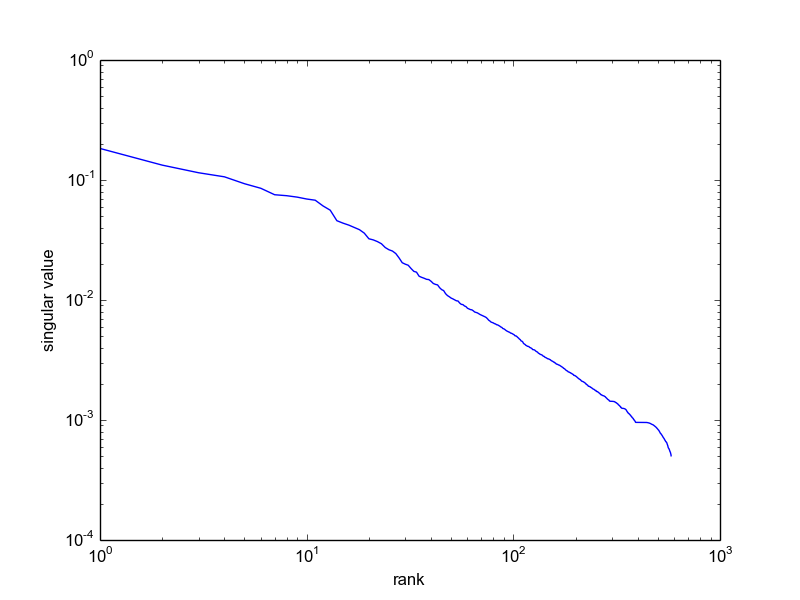
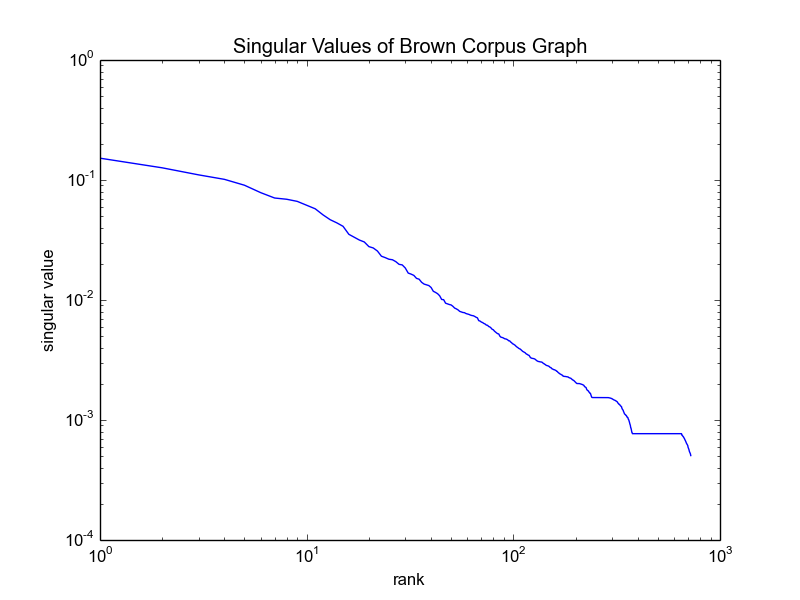
only the first thousand or so

diff --git a/analysis/overflow_singular_values.py b/analysis/overflow_singular_values.py
@@ -1,0 +1,21 @@
+import collections
+import math
+from nltk.corpus import brown
+import networkx as nx
+import matplotlib.pyplot as plt
+from scipy.stats import ks_2samp
+import numpy as np
+import numpy.linalg as npl
+
+with open("stack_overflow2.txt", "r") as stack_corpus:
+    net = nx.read_edgelist(stack_corpus)
+    adj = nx.to_numpy_matrix(net)
+    U, S, V = npl.svd(adj)
+    eigs = S ** 2 / np.cumsum(S)[-1]
+    eigs = eigs[eigs>0.0005]
+
+    plt.loglog(eigs, 'b-')
+    plt.xlabel("rank")
+    plt.ylabel("singular value")
+    plt.title("Singular Values from Stack Overflow Graph")
+    plt.savefig("overflow_singval_loglog")

diff --git a/analysis/stack_overflow_process.py b/analysis/stack_overflow_process.py
@@ -1,0 +1,7 @@
+with open("stack_overflow.txt", "r") as stack_file:
+    for line in stack_file:
+        first, second = tuple(line.split())
+        if first == "__none__" or second == "__none__": continue
+        first, second= int(first), int(second)
+        if first < 10000 and second < 10000:
+            print first, second

diff --git a/analysis/singular_values.py b/analysis/singular_values.py
@@ -8,7 +8,7 @@ import numpy as np
 import numpy.linalg as npl
 
 net = nx.DiGraph()
-words = brown.words()[:10000]
+words = brown.words()[:5000]
 net.add_nodes_from(words)
 for word, prevword in zip(words, words[1:]):
     net.add_edge(word, prevword)
